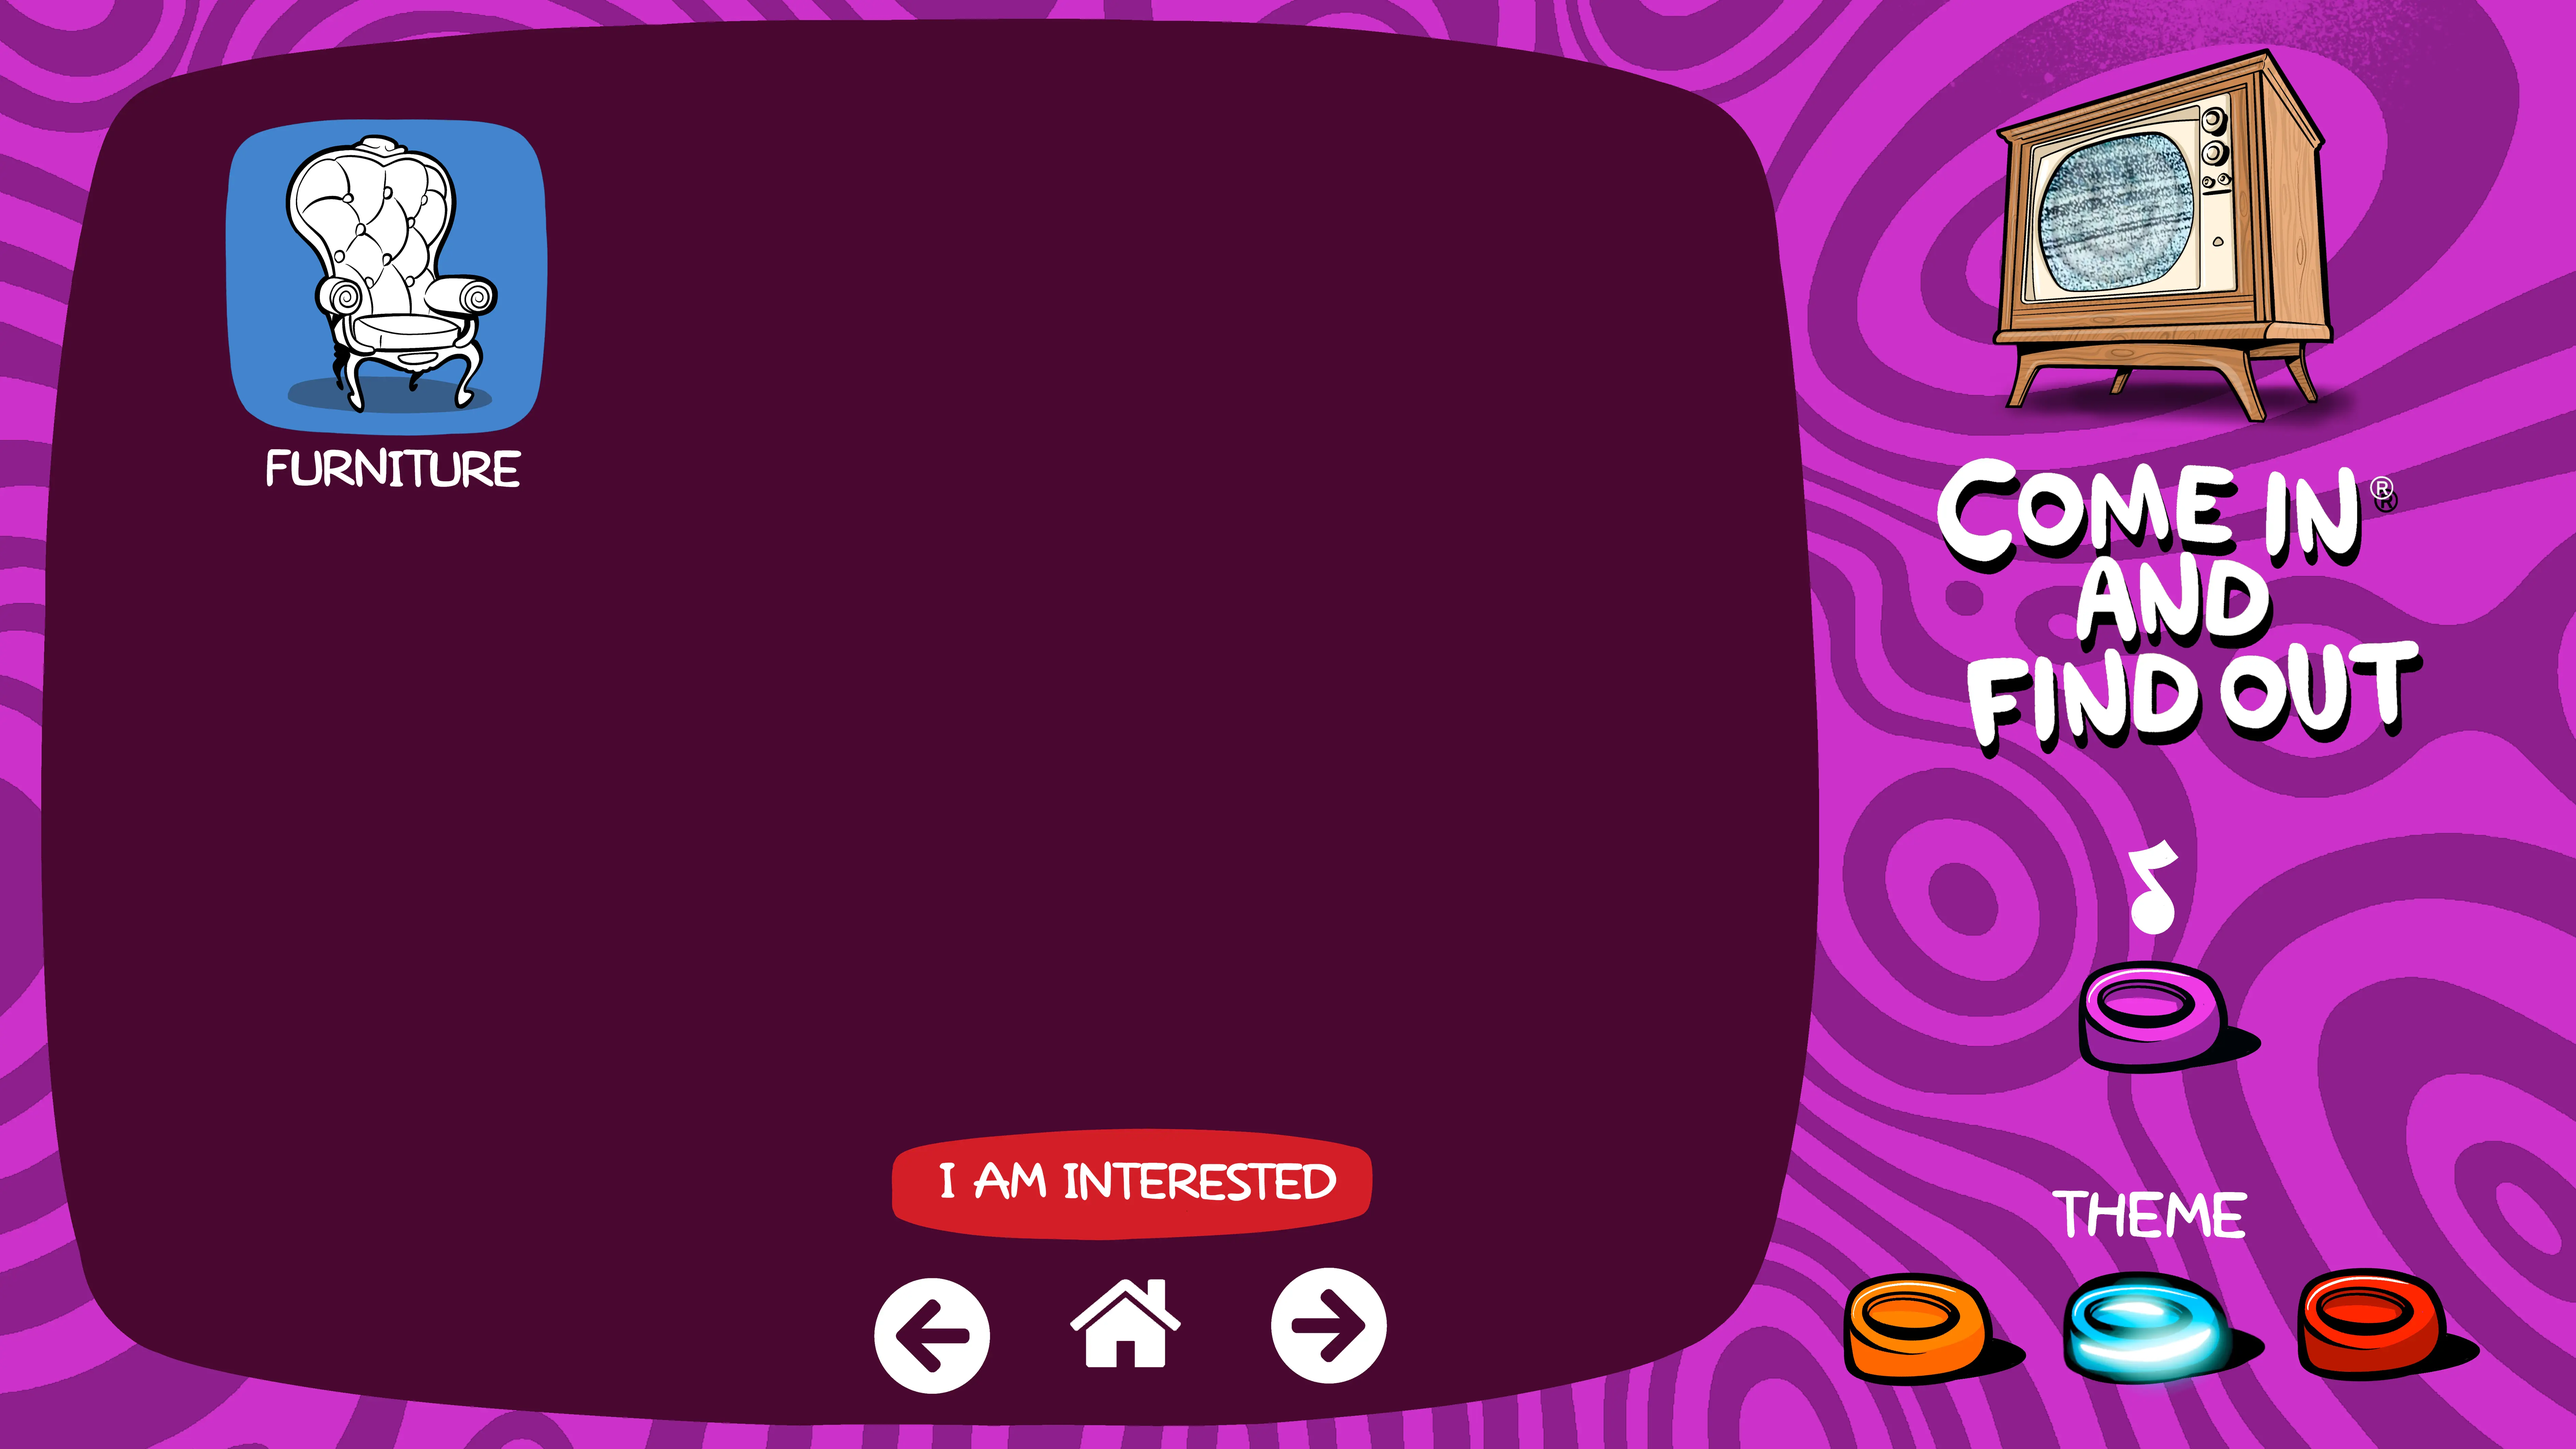
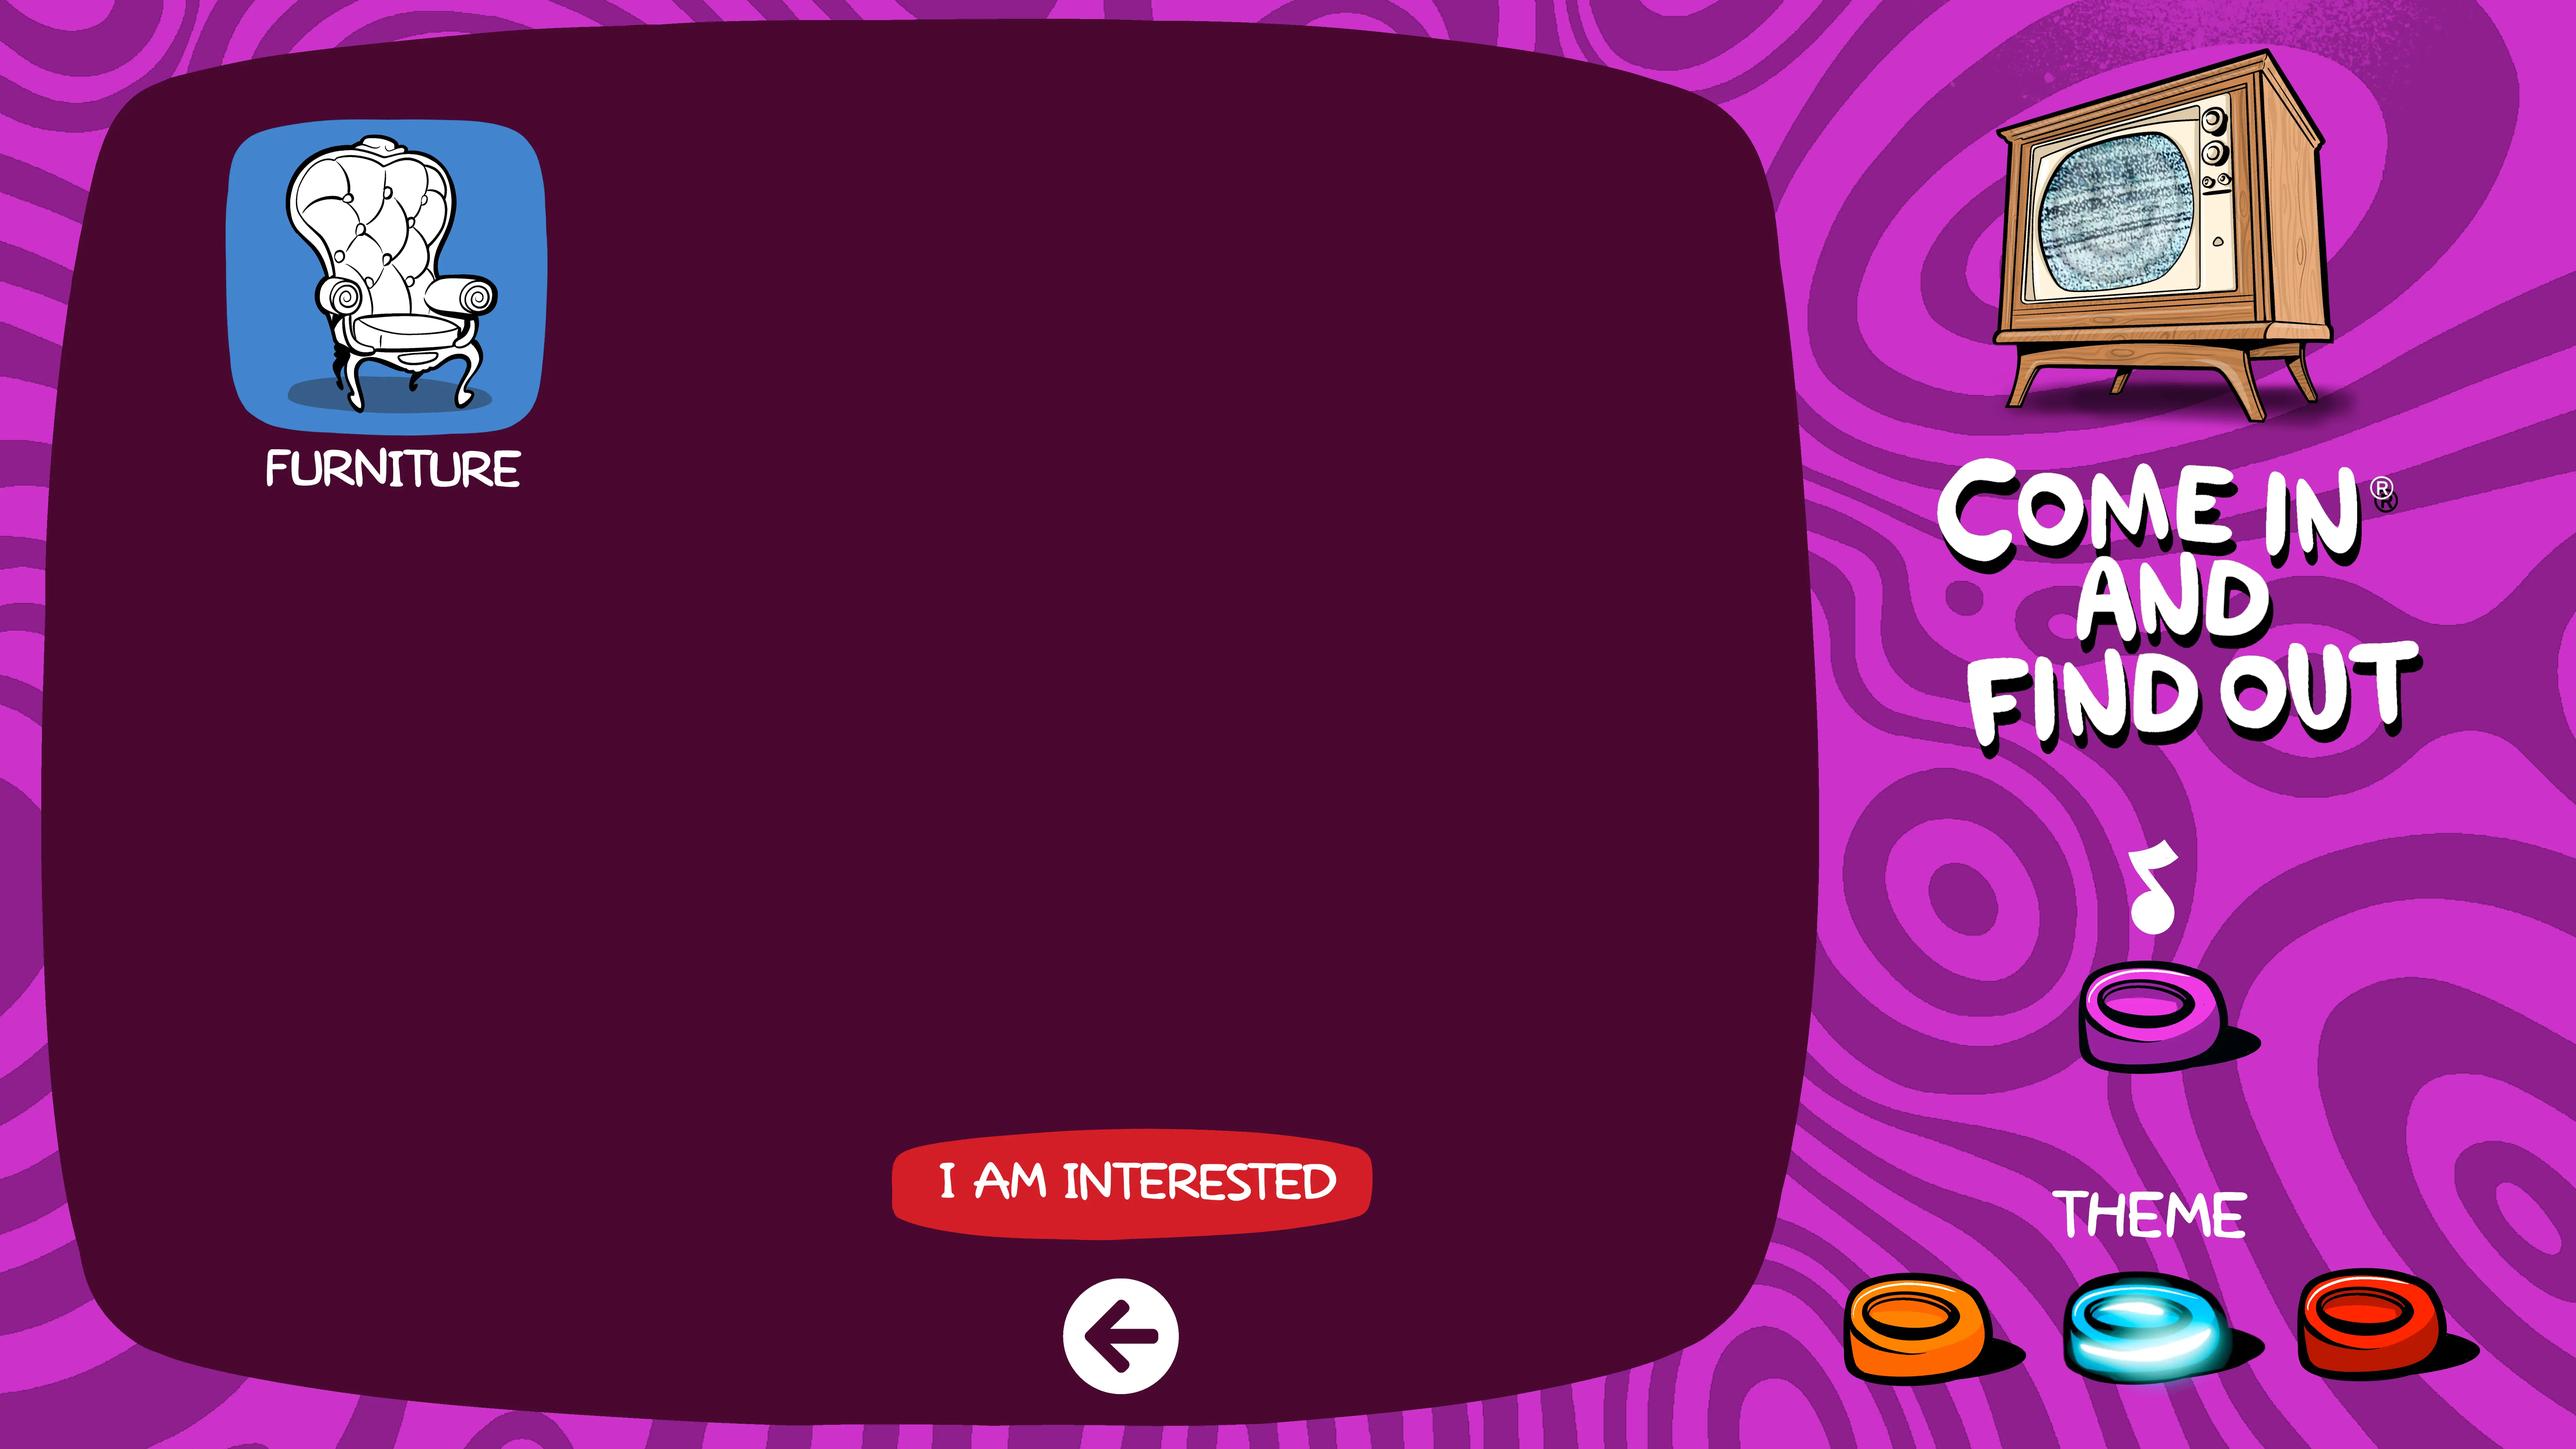
No home from detail.

Changed region(s): [[0.3122, 0.8692, 0.562, 0.9624]]

diff --git a/script/links_details.js b/script/links_details.js
@@ -4,9 +4,7 @@ function positionLinks() {
     const theme1 = document.getElementById("theme1");
     const theme2 = document.getElementById("theme2");
     const theme3 = document.getElementById("theme3");
-    const navigation1 = document.getElementById("navigation1");
     const navigation2 = document.getElementById("navigation2");
-    const navigation3 = document.getElementById("navigation3");
     const detail1 = document.getElementById("detail1");
     const detail2 = document.getElementById("detail2");
     const detail3 = document.getElementById("detail3");
@@ -21,9 +19,7 @@ function positionLinks() {
         {element: theme1, x: 1367, y: 930},
         {element: theme2, x: 1537, y: 930},
         {element: theme3, x: 1705, y: 930},
-        {element: navigation1, x: 636, y: 935},
         {element: navigation2, x: 780, y: 930},
-        {element: navigation3, x: 930, y: 930}
     ];
     const details = [
         {element: detail1, x: 480, y: 80},
@@ -50,17 +46,17 @@ function positionLinks() {
     const offsetX = (containerRect.width - displayedWidth) / 2;
     const offsetY = (containerRect.height - displayedHeight) / 2;
 
-    details.forEach(hs => {
-        hs.element.style.left = `${offsetX + hs.x * scale}px`;
-        hs.element.style.top = `${offsetY + hs.y * scale}px`;
-        hs.element.style.width = `${340 * scale}px`; // Scale hotspot size
-        hs.element.style.height = `${340 * scale}px`;
-    });
     themes.forEach(hs => {
         hs.element.style.left = `${offsetX + hs.x * scale}px`;
         hs.element.style.top = `${offsetY + hs.y * scale}px`;
         hs.element.style.width = `${120 * scale}px`; // Scale hotspot size
         hs.element.style.height = `${120 * scale}px`;
+    });
+    details.forEach(hs => {
+        hs.element.style.left = `${offsetX + hs.x * scale}px`;
+        hs.element.style.top = `${offsetY + hs.y * scale}px`;
+        hs.element.style.width = `${340 * scale}px`; // Scale hotspot size
+        hs.element.style.height = `${340 * scale}px`;
     });
     interests.forEach(hs => {
         hs.element.style.left = `${offsetX + hs.x * scale}px`;

diff --git a/pages/details/purple/accessories.html b/pages/details/purple/accessories.html
@@ -20,9 +20,7 @@
     <a href="" class="detail" id="detail3"></a>
     <a href="" class="detail" id="detail4"></a>
     <a href="" class="interest" id="interest"></a>
-    <a href="#" class="theme" id="navigation1"></a>
-    <a href="../../purple_home.html" class="theme" id="navigation2"></a>
-    <a href="#" class="theme" id="navigation3"></a>
+    <a href="../../categories/purple/accessories.html" class="theme" id="navigation2"></a>
 </div>
 <script src="../../../script/links_details.js"></script>
 </body>

diff --git a/pages/details/purple/curiosity.html b/pages/details/purple/curiosity.html
@@ -20,9 +20,7 @@
     <a href="" class="detail" id="detail3"></a>
     <a href="" class="detail" id="detail4"></a>
     <a href="" class="interest" id="interest"></a>
-    <a href="#" class="theme" id="navigation1"></a>
-    <a href="../../purple_home.html" class="theme" id="navigation2"></a>
-    <a href="#" class="theme" id="navigation3"></a>
+    <a href="../../categories/purple/curiosity.html" class="theme" id="navigation2"></a>
 </div>
 <script src="../../../script/links_details.js"></script>
 </body>

diff --git a/pages/details/purple/furniture.html b/pages/details/purple/furniture.html
@@ -20,9 +20,7 @@
     <a href="" class="detail" id="detail3"></a>
     <a href="" class="detail" id="detail4"></a>
     <a href="" class="interest" id="interest"></a>
-    <a href="#" class="theme" id="navigation1"></a>
-    <a href="../../purple_home.html" class="theme" id="navigation2"></a>
-    <a href="#" class="theme" id="navigation3"></a>
+    <a href="../../categories/purple/furniture.html" class="theme" id="navigation2"></a>
 </div>
 <script src="../../../script/links_details.js"></script>
 </body>

diff --git a/pages/details/white/accessories.html b/pages/details/white/accessories.html
@@ -20,9 +20,7 @@
     <a href="" class="detail" id="detail3"></a>
     <a href="" class="detail" id="detail4"></a>
     <a href="" class="interest" id="interest"></a>
-    <a href="#" class="theme" id="navigation1"></a>
-    <a href="../../white_home.html" class="theme" id="navigation2"></a>
-    <a href="#" class="theme" id="navigation3"></a>
+    <a href="../../categories/white/accessories.html" class="theme" id="navigation2"></a>
 </div>
 <script src="../../../script/links_details.js"></script>
 </body>

diff --git a/pages/details/purple/asiatica.html b/pages/details/purple/asiatica.html
@@ -20,9 +20,7 @@
     <a href="" class="detail" id="detail3"></a>
     <a href="" class="detail" id="detail4"></a>
     <a href="" class="interest" id="interest"></a>
-    <a href="#" class="theme" id="navigation1"></a>
-    <a href="../../purple_home.html" class="theme" id="navigation2"></a>
-    <a href="#" class="theme" id="navigation3"></a>
+    <a href="../../categories/purple/asiatica.html" class="theme" id="navigation2"></a>
 </div>
 <script src="../../../script/links_details.js"></script>
 </body>

diff --git a/pages/details/purple/clothing.html b/pages/details/purple/clothing.html
@@ -20,9 +20,7 @@
     <a href="" class="detail" id="detail3"></a>
     <a href="" class="detail" id="detail4"></a>
     <a href="" class="interest" id="interest"></a>
-    <a href="#" class="theme" id="navigation1"></a>
-    <a href="../../purple_home.html" class="theme" id="navigation2"></a>
-    <a href="#" class="theme" id="navigation3"></a>
+    <a href="../../categories/purple/clothing.html" class="theme" id="navigation2"></a>
 </div>
 <script src="../../../script/links_details.js"></script>
 </body>

diff --git a/pages/details/purple/jewelry.html b/pages/details/purple/jewelry.html
@@ -20,9 +20,7 @@
     <a href="" class="detail" id="detail3"></a>
     <a href="" class="detail" id="detail4"></a>
     <a href="" class="interest" id="interest"></a>
-    <a href="#" class="theme" id="navigation1"></a>
-    <a href="../../purple_home.html" class="theme" id="navigation2"></a>
-    <a href="#" class="theme" id="navigation3"></a>
+    <a href="../../categories/purple/jewelry.html" class="theme" id="navigation2"></a>
 </div>
 <script src="../../../script/links_details.js"></script>
 </body>

diff --git a/pages/details/white/curiosity.html b/pages/details/white/curiosity.html
@@ -20,9 +20,7 @@
     <a href="" class="detail" id="detail3"></a>
     <a href="" class="detail" id="detail4"></a>
     <a href="" class="interest" id="interest"></a>
-    <a href="#" class="theme" id="navigation1"></a>
-    <a href="../../white_home.html" class="theme" id="navigation2"></a>
-    <a href="#" class="theme" id="navigation3"></a>
+    <a href="../../categories/white/curiosity.html" class="theme" id="navigation2"></a>
 </div>
 <script src="../../../script/links_details.js"></script>
 </body>

diff --git a/pages/details/white/furniture.html b/pages/details/white/furniture.html
@@ -20,9 +20,7 @@
     <a href="" class="detail" id="detail3"></a>
     <a href="" class="detail" id="detail4"></a>
     <a href="" class="interest" id="interest"></a>
-    <a href="#" class="theme" id="navigation1"></a>
-    <a href="../../white_home.html" class="theme" id="navigation2"></a>
-    <a href="#" class="theme" id="navigation3"></a>
+    <a href="../../categories/white/furniture.html" class="theme" id="navigation2"></a>
 </div>
 <script src="../../../script/links_details.js"></script>
 </body>

diff --git a/pages/details/white/asiatica.html b/pages/details/white/asiatica.html
@@ -20,9 +20,7 @@
     <a href="" class="detail" id="detail3"></a>
     <a href="" class="detail" id="detail4"></a>
     <a href="" class="interest" id="interest"></a>
-    <a href="#" class="theme" id="navigation1"></a>
-    <a href="../../white_home.html" class="theme" id="navigation2"></a>
-    <a href="#" class="theme" id="navigation3"></a>
+    <a href="../../categories/white/asiatica.html" class="theme" id="navigation2"></a>
 </div>
 <script src="../../../script/links_details.js"></script>
 </body>

diff --git a/pages/details/white/clothing.html b/pages/details/white/clothing.html
@@ -20,9 +20,7 @@
     <a href="" class="detail" id="detail3"></a>
     <a href="" class="detail" id="detail4"></a>
     <a href="" class="interest" id="interest"></a>
-    <a href="#" class="theme" id="navigation1"></a>
-    <a href="../../white_home.html" class="theme" id="navigation2"></a>
-    <a href="#" class="theme" id="navigation3"></a>
+    <a href="../../categories/white/clothing.html" class="theme" id="navigation2"></a>
 </div>
 <script src="../../../script/links_details.js"></script>
 </body>
